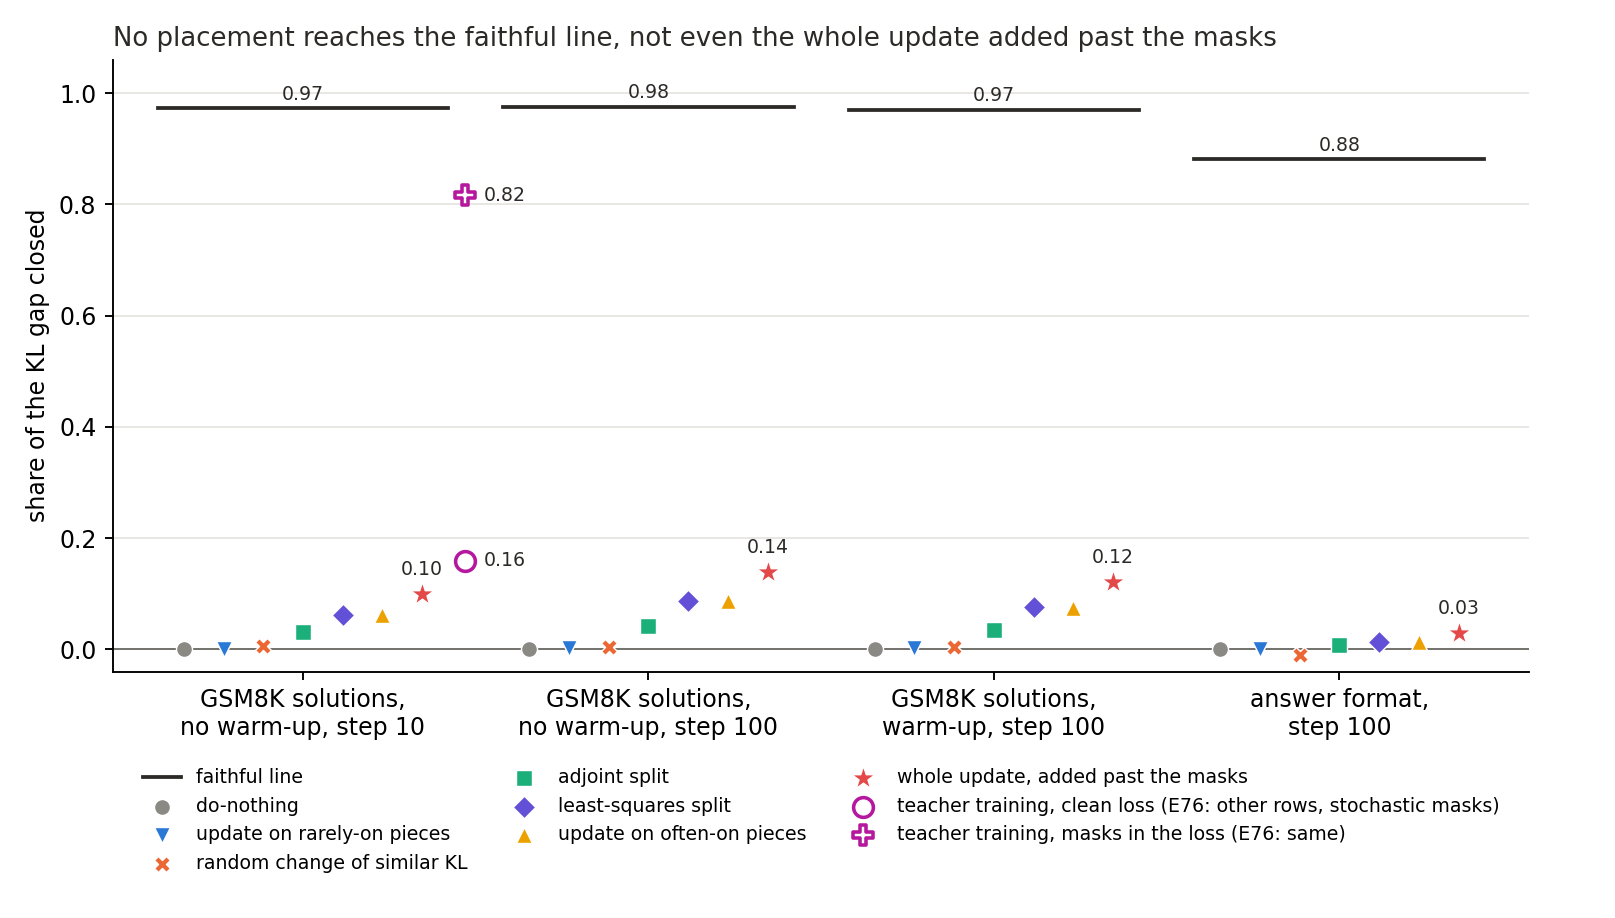
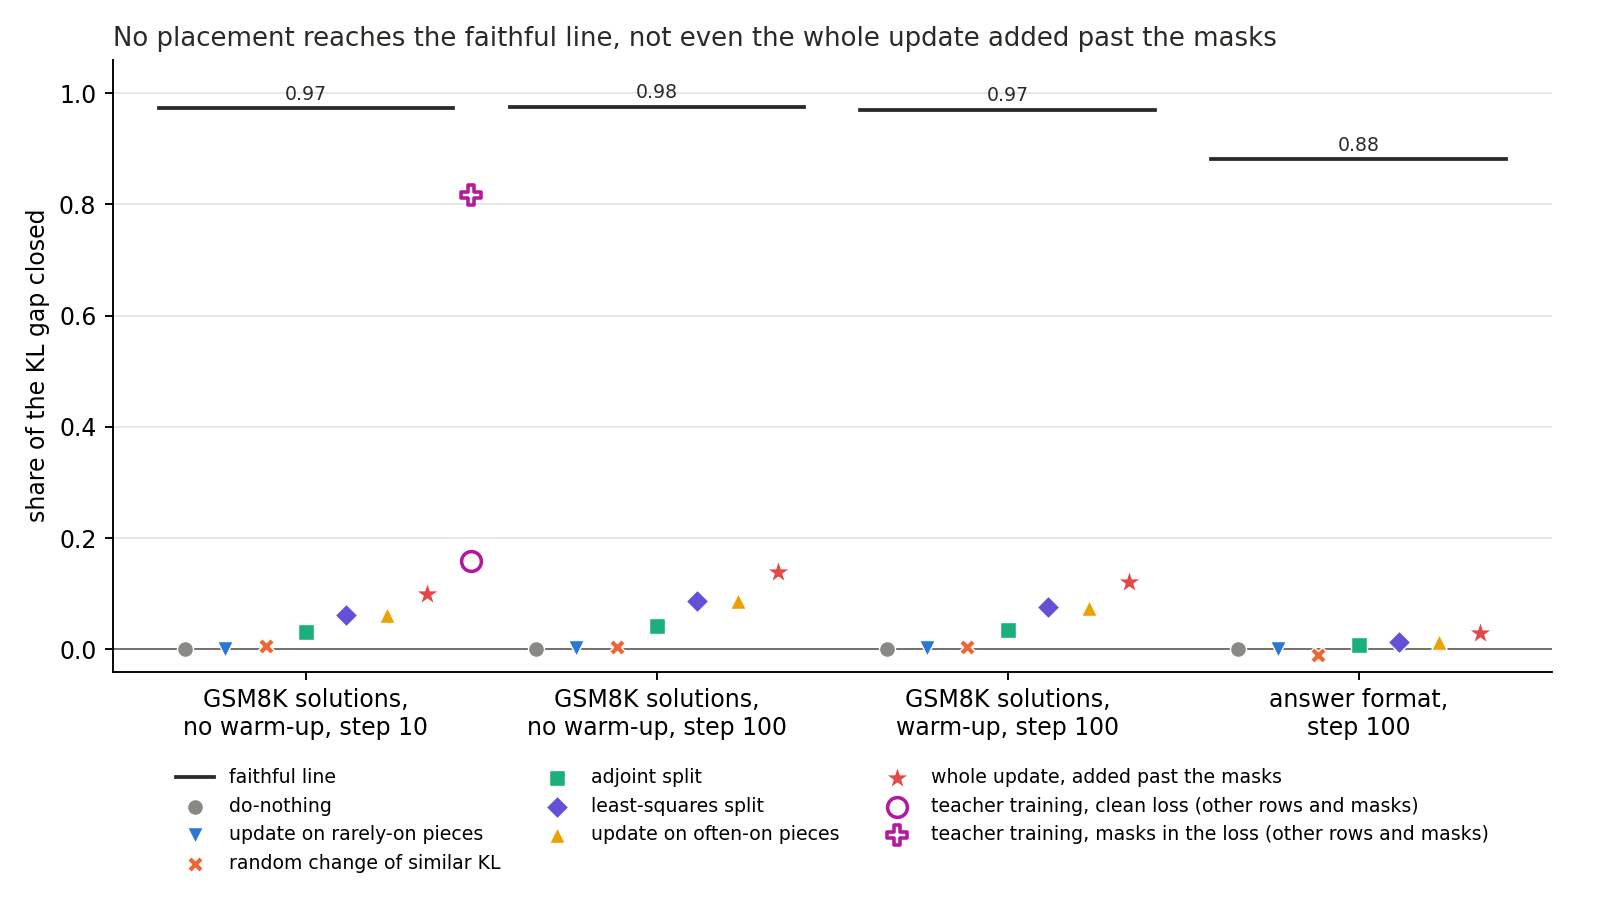
E68 clean figure: no value labels on points, legend without the experiment code

diff --git a/experiments/qwen_pass_test/plot.py b/experiments/qwen_pass_test/plot.py
@@ -96,16 +96,12 @@ def gap_closed_clean() -> None:
             v = ceil[u]["r2_C"] if arm == "ceiling" else sc[u]["states"][arm]["r2"]
             ax.scatter(x + (i - (n - 1) / 2) * 0.115, v, color=col, marker=mark, s=110 if mark == "*" else 46, edgecolor="white",
                        linewidth=0.6, zorder=3, label=names[arm] if x == 0 else None)
-            if arm == "ceiling":
-                ax.annotate(f"{v:.2f}", (x + (i - (n - 1) / 2) * 0.115, v), xytext=(0, 8), textcoords="offset points",
-                            ha="center", fontsize=8, color=INK)
     # E76 and E79, first update only: 8 rows, stochastic masks with a share of Δ. Share computed as above from W0's 1.3336 and K0's 0.0423
     teacher = json.loads((HERE.parent / "qwen_masked_teacher" / "results" / "score.json").read_text())["last"]
     w0_read, w0_self = 1.3336, 0.0423
-    for arm, label in (("A", "teacher training, clean loss (E76: other rows, stochastic masks)"), ("B", "teacher training, masks in the loss (E76: same)")):
+    for arm, label in (("A", "teacher training, clean loss (other rows and masks)"), ("B", "teacher training, masks in the loss (other rows and masks)")):
         v = (w0_read - teacher[arm]["iv"]) / (w0_read - w0_self)
         ax.scatter(0.47, v, facecolor="white", edgecolor="#b5179e", marker="o" if arm == "A" else "P", s=70, linewidth=1.5, zorder=3, label=label)
-        ax.annotate(f"{v:.2f}", (0.47, v), xytext=(8, 0), textcoords="offset points", va="center", fontsize=8, color=INK)
     ax.set_ylim(-0.04, 1.06)
     ax.set_xlim(-0.55, len(updates) - 0.45)
     ax.set_ylabel("share of the KL gap closed")
